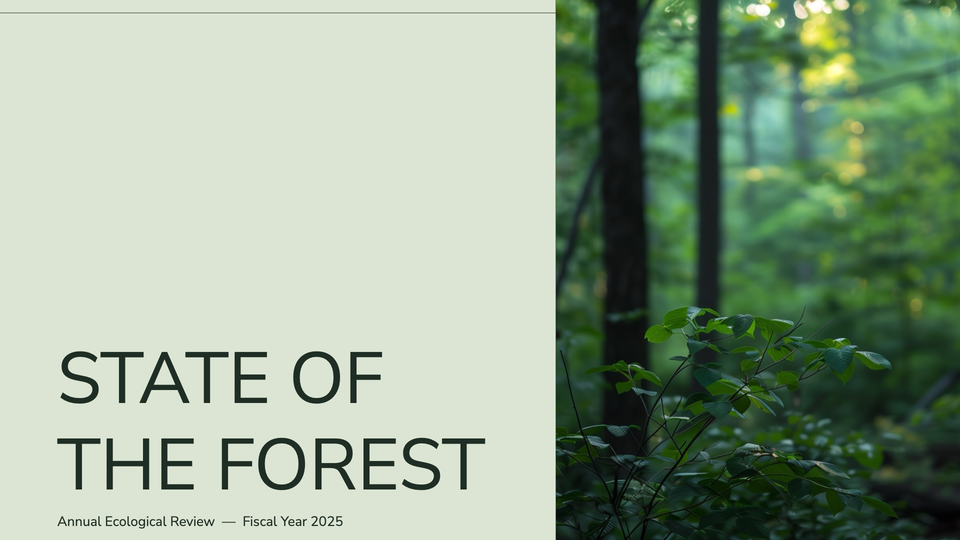
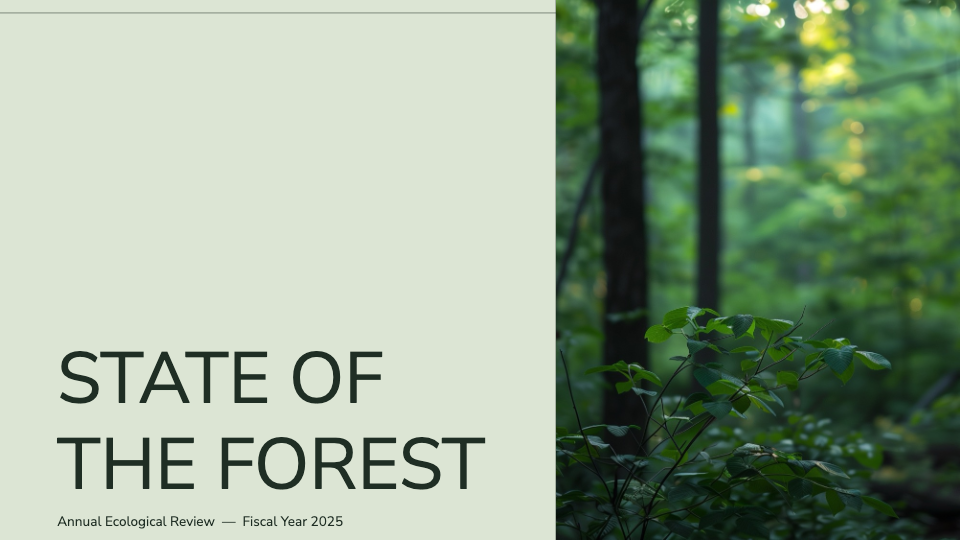
chore(release): 0.56.0
- Refresh README screenshots (docs/images/{docx,pptx,xlsx}.png) from the
  current renderer via Storybook (same compositions and dimensions).
- Feature Support: add RTL text rows (docx/pptx/xlsx), docx table
  auto-layout, w:bidiVisual column order, RTL sheets, kinsoku.
- CHANGELOG 0.56.0 — the right-to-left release.
- Bump all 8 package versions to 0.56.0.

diff --git a/CHANGELOG.md b/CHANGELOG.md
@@ -4,6 +4,56 @@ All notable changes to @silurus/ooxml are documented here. The project follows
 semantic versioning; minor releases add spec-compliant features or behavior
 changes that remain compatible with existing API surfaces.
 
+## 0.56.0 — 2026-06-11
+
+The right-to-left release: full RTL (Arabic / Hebrew) rendering across all
+three formats (issue #366), plus Japanese kinsoku line breaking and Word
+table auto-layout.
+
+core:
+
+- From-scratch UAX#9 bidirectional engine behind a swappable `BidiEngine`
+  seam — passes the full Unicode conformance suites (BidiCharacterTest
+  91,707 + BidiTest 490,852 lines), with a §4.3 HL1 class-override hook
+  (#367, #375).
+- Google-font preload now awaits every substitute `FontFace` before first
+  paint — deterministic rendering across reloads (#375).
+
+docx:
+
+- Right-to-left text: per-line UAX#9 reorder, `w:bidi` / run `w:rtl`
+  (ambiguous punctuation → RTL, §17.3.2.30), complex-script formatting axis
+  (`w:szCs` / `w:bCs` / `rFonts@cs`, §17.3.2.26/.38/.39 with direct-value
+  mirroring per §17.3.2.18), Word-compatible AN digit ordering for dates,
+  RTL lists / logical indents (Part 4 §14.11.2), `w:bidiVisual` column
+  order (§17.4.1), `w:tcBorders` start/end edges (§17.4.66–67), and theme
+  cs-font fallback via `w:themeFontLang` (§17.15.1.88) (#368, #374–#378,
+  #380).
+- Word table auto-layout: columns sized by preferred widths with a minimum
+  content-width floor (`w:tblLayout` autofit, §17.4.52/.63) (#372, #374).
+- Japanese kinsoku line breaking (`w:kinsoku` default-on, custom
+  `noLineBreaksBefore/After` sets, §17.15.1.58–.60) (#383).
+- Line-metric fidelity: substituted fonts use the document font's OS/2 win
+  metrics (two-regime floor/shrink), `hRule="exact"` rows clip (§17.4.81),
+  zero exact line spacing (#371), and a trailing `<w:br/>` keeps its empty
+  line (§17.3.3.1) (#379, #382).
+
+pptx:
+
+- Right-to-left text: intra-line bidi, RTL bullets, `bodyPr@rtlCol` column
+  order, `tblPr@rtl` tables, content-driven table row heights (`a:tr@h` as
+  minimum, §21.1.3.18) (#369, #375).
+- Arabic fallback web fonts are now gated to Arabic-script faces — Latin
+  text in substituted fonts resolves sans-serif again (#381).
+
+xlsx:
+
+- Right-to-left sheets (`sheetView rightToLeft`, §18.3.1.87): mirrored
+  grid, headers and frozen panes, rich-text cell bidi with `readingOrder`
+  (#370, #375).
+- Selection overlay and pointer hit-testing share the grid's RTL mirror —
+  the selection frame now follows horizontal scrolling (#376).
+
 ## 0.55.0 — 2026-06-09
 
 API (all formats) — **breaking, opt-in math only:**

diff --git a/README.md b/README.md
@@ -411,7 +411,11 @@ export const PptxViewerComponent = component$<{ src: string }>(({ src }) => {
 | | Table style borders / shading / banding (`tblStylePr`, `cnfStyle`, §17.4.7) | ✅ |
 | | Table of contents (TOC field) — dot leaders, right-aligned page numbers | ✅ |
 | | keepNext / keepLines / widowControl | ✅ |
+| | Right-to-left text — UAX#9 bidi, `w:bidi` / `w:rtl`, complex-script formatting (`w:szCs` / `w:bCs` / `rFonts@cs`, §17.3.2.26), RTL lists and indents | ✅ |
+| | Japanese kinsoku line breaking (`w:kinsoku`, §17.15.1.58 — 行頭/行末禁則) | ✅ |
 | **Elements** | Tables (with borders, fills, merges, banding, alignment) | ✅ |
+| | Table auto-layout by preferred widths (`w:tblLayout` autofit, §17.4.52; min content width) | ✅ |
+| | Right-to-left table column order (`w:bidiVisual`, §17.4.1) | ✅ |
 | | Math equations (OMML `m:oMath` / `m:oMathPara`, rendered via MathJax — opt-in `@silurus/ooxml/math`) | ✅ |
 | | Images (inline and anchored, with text wrap) | ✅ |
 | | Text boxes / drawing shapes | ✅ |
@@ -445,6 +449,7 @@ export const PptxViewerComponent = component$<{ src: string }>(({ src }) => {
 | | Text wrapping | ✅ |
 | | Number formats (`0.00`, `%`, `#,##0`, custom date/time) | ✅ |
 | **Structure** | Merged cells | ✅ |
+| | Right-to-left sheets (`sheetView rightToLeft`, §18.3.1.87 — mirrored grid, headers, selection, scroll) | ✅ |
 | | Frozen panes | ✅ |
 | | Row / column sizing (custom widths and heights) | ✅ |
 | | Hidden rows / columns | ✅ |
@@ -533,7 +538,7 @@ export const PptxViewerComponent = component$<{ src: string }>(({ src }) => {
 | | Tab stops | ✅ |
 | | Indent / margin | ✅ |
 | | Vertical text (`bodyPr@vert` — vert / vert270 / eaVert) | ✅ |
-| | Right-to-left paragraph (`pPr@rtl` — Arabic / Hebrew default alignment + browser bidi) | ✅ |
+| | Right-to-left text — UAX#9 bidi engine, `pPr@rtl`, RTL bullets, `bodyPr@rtlCol` column order, `tblPr@rtl` tables | ✅ |
 | **Text — body** | Text padding (insets) | ✅ |
 | | normAutoFit (shrink to fit) | ✅ |
 | | spAutoFit (expand box; suppresses wrap when text fits in one line) | ✅ |